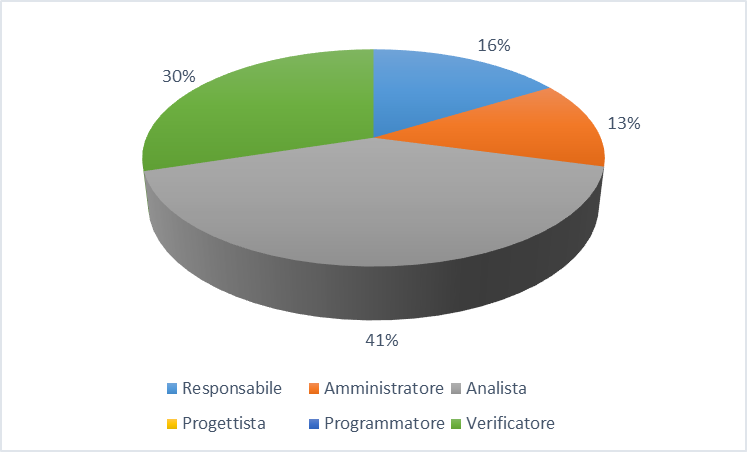
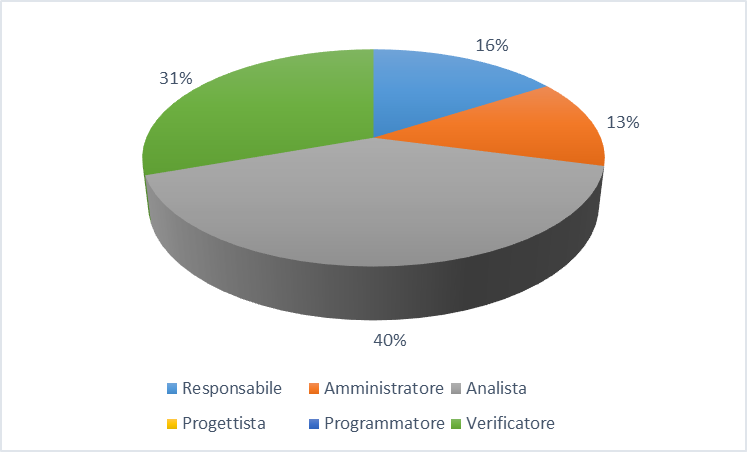
Correzioni a Piano di Progetto

diff --git a/PianodiProgetto/tex/PreventivoConsuntivo.tex b/PianodiProgetto/tex/PreventivoConsuntivo.tex
@@ -3,23 +3,25 @@
 \begin{document}
 	
 \chapter{Preventivo}
-Per il preventivo si tiene conto che i periodi di Analisi e di Consolidamento dei requisiti sono considerati di investimento e quindi non a carico del committente, di conseguenza le ore qui rendicontate non saranno conteggiate nelle ore totali da retribuire.
+I periodi di Analisi e di Consolidamento dei requisiti sono considerati di investimento e quindi non a carico del committente. Le ore relative qui rendicontate non saranno conteggiate nelle ore totali da retribuire.\\
 La suddivisione oraria viene fatta tenendo conto di tre regole principali:
 \begin{enumerate}
-\item Ogni membro del gruppo dovrà sostenere una mole di lavoro comparabile, quindi il totale delle ore dovrà essere equamente distribuito tra i membri;
+\item Ogni membro del gruppo dovrà sostenere una quantità di lavoro paragonabile, quindi il totale delle ore dovrà essere equamente distribuito tra i membri;
 \item Ogni membro del gruppo dovrà ricoprire ogni ruolo almeno una volta;
-\item In nessun caso si dovrà verificare un conflitto di interessi in cui un Vericatore debba controllare il proprio lavoro.
+\item In nessun caso si dovrà verificare un conflitto di interessi in cui un \textit{Vericatore} debba controllare il proprio lavoro.
 \end{enumerate}
 Le sigle utilizzate per i vari ruoli saranno:
 \begin{itemize}
-\item Re: Responsabile;
-\item Am: Amministratore;
-\item An: Analista;
-\item Pt: Progettista;
-\item Pr: Programmatore;
-\item Ve: Verificatore.
+\item Re: \textit{Responsabile};
+\item Am: \textit{Amministratore};
+\item An: \textit{Analista};
+\item Pt: \textit{Progettista};
+\item Pr: \textit{Programmatore};
+\item Ve: \textit{Verificatore}.
 \end{itemize}
-Per facilitare la lettura delle tabelle si è deciso che, nel caso una cella contenga un valore pari a 0, questo verrà omesso lasciando la cella vuota.
+\noindent Ogni sezione rappresenta un periodo di lavoro del progetto ed è suddivisa in prospetto orario dove si espone la distribuzione oraria di ogni componente del gruppo nei vari ruoli che ricopre e in prospetto economico dove si riassumono i costi sostenuti per ogni ruolo. \\
+Ogni prospetto è accompagnato da un grafico che permette una veloce comprensione della suddivisione delle ore nei vari ruoli. Per il prospetto orario si utilizza un diagramma a barre mentre per quello economico un diagramma a torta.\\
+\noindent Per facilitare la lettura delle tabelle si è deciso che, nel caso una cella contenga un valore pari a 0, questo verrà omesso lasciando la cella vuota.
 
 \section{Analisi}
 Questo periodo di lavoro fa parte del periodo di investimento a carico del gruppo Graphite.
@@ -31,14 +33,14 @@ Nel periodo di Analisi la distribuzione oraria sarà la seguente:
 	\begin{tabular}{|c|cccccc|c|}
 		\hline
 		Nominativo&Re&Am&An&Pt&Pr&Ve&Ore totali\\ \hline
-		Marco Focchiatti&5& &17& & & &22 \\ \hline
+		Marco Focchiatti&5& &16& & & &21 \\ \hline
 		Samuele Modena&10&4& & & &8&22 \\ \hline
-		Matteo Rizzo&10& & & & &12&22 \\ \hline
+		Matteo Rizzo&9& & & & &12&21 \\ \hline
 		Giulio Rossetti& &8&6& & &8&22 \\ \hline
-		Kevin Silvestri& & &12& & &10&22 \\ \hline
+		Kevin Silvestri& & &11& & &10&21 \\ \hline
 		Manfredi Smaniotto& & &14& & &8&22 \\ \hline
 		Cristiano Tessarolo& &8&14& & & &22 \\  \hline
-		Ore totali ruolo&25&20&63& & &46&154 \\ \hline
+		Ore totali ruolo&24&20&61& & &46&151 \\ \hline
 	\end{tabular}
 \caption{Distribuzione oraria del periodo di Analisi}
 \end{table}
@@ -59,13 +61,13 @@ Nello svolgimento delle attività di questo periodo i costi sostenuti per ogni r
 	\begin{tabular}{|c|c|c|}
 		\hline
 		Ruolo&Ore&Costo in \euro{} \\ \hline
-		Responsabile&25&750,00  \\ \hline
+		Responsabile&24&720,00  \\ \hline
 		Amministratore&20&400,00  \\ \hline
-		Analista&63&1575,00  \\ \hline
+		Analista&61&1525,00  \\ \hline
 		Progettista& &  \\ \hline
 		Programmatore& &  \\ \hline
 		Verificatore&46&690,00  \\ \hline
-		Totale&154&3415,00 \\ \hline
+		Totale&151&3335,00 \\ \hline
 	\end{tabular}
 	\caption{Prospetto economico del periodo di Analisi}
 \end{table}
@@ -319,14 +321,14 @@ Di seguito sono riportate il totale delle ore del progetto contando le ore di in
 	\begin{tabular}{|c|cccccc|c|}
 		\hline
 		Nominativo&Re&Am&An&Pt&Pr&Ve&Ore totali\\ \hline
-		Marco Focchiatti&10&5&22&32&22&41&132 \\ \hline
+		Marco Focchiatti&10&5&21&32&22&41&131 \\ \hline
 		Samuele Modena&10&10&19&34&24&34&131 \\ \hline
-		Matteo Rizzo&12&10&8&42&22&36&130 \\ \hline
+		Matteo Rizzo&11&10&8&42&22&36&129 \\ \hline
 		Giulio Rossetti&10&10&15&40&22&33&130 \\ \hline
-		Kevin Silvestri&8&8&12&35&22&45&130 \\ \hline
+		Kevin Silvestri&8&8&11&35&22&45&129 \\ \hline
 		Manfredi Smaniotto&8&9&17&34&21&42&131 \\ \hline
 		Cristiano Tessarolo&8&8&14&34&21&46&131 \\  \hline
-		Ore totali ruolo&66&60&107&251&154&277&915 \\ \hline
+		Ore totali ruolo&65&60&105&251&154&277&912 \\ \hline
 	\end{tabular}
 	\caption{Distribuzione oraria totale delle ore di investimento e rendicontate}
 \end{table}
@@ -340,20 +342,20 @@ Tali dati sono riassunti graficamente nel seguente diagramma a barre:
 \end{figure}
 
 \subsection{Totale del prospetto economico con investimento}
-Di seguito è riportato il totale delle ore dei diversi ruoli del progetto contando le ore di investimento e delle ore rendicontate nel preventivo a carico del committente:
+Di seguito è riportato il totale delle ore dei diversi ruoli del progetto contando anche le ore di investimento, non a carico del proponente trattandosi dell'investimento iniziale:
 
 \begin{table}[H]
 	\centering
 	\begin{tabular}{|c|c|c|}
 		\hline
 		Ruolo&Ore&Costo in \euro{} \\ \hline
-		Responsabile&66&1980,00  \\ \hline
+		Responsabile&65&1950,00  \\ \hline
 		Amministratore&60&1200,00  \\ \hline
-		Analista&107&2675,00 \\ \hline
+		Analista&105&2625,00 \\ \hline
 		Progettista&251&5522,00 \\ \hline
 		Programmatore&154&2310,00 \\ \hline
 		Verificatore&277&4155,00  \\ \hline
-		Totale&915&17842,00 \\ \hline
+		Totale&912&17762,00 \\ \hline
 	\end{tabular}
 	\caption{Prospetto economico totale delle ore di investimento e rendicontate}
 \end{table}
@@ -432,8 +434,8 @@ In questa sezione verranno presentati i consuntivi dei vari periodi con una
 breve valutazione degli stessi. Verrà inoltre presentato un preventivo a finire
 che terrà conto dei soli periodi rendicontati. I valori presentati saranno:
 \begin{itemize}
-\item Positivi se il preventivo è superiore ai valori del consuntivo;
-\item Negativi se il preventivo è inferiore ai valori del consuntivo.
+\item \textbf{Positivi:} se il preventivo è superiore ai valori del consuntivo;
+\item \textbf{Negativi:} se il preventivo è inferiore ai valori del consuntivo.
 \end{itemize}
 \section{Periodo di Analisi}
 Essendo il periodo di Analisi considerato periodo di investimento, il consuntivo viene presentato a scopo informativo ma non conteggiato nel preventivo a finire.
@@ -512,7 +514,7 @@ usato il valore del preventivo.
 	\begin{tabular}{|c|c|c|}
 		\hline
 		Nome&Data&Firma \\ \hline
-		Marco Focchiatti& \today & \includegraphics[scale=0.5]{img/firme/SilvestriKevin} \\
+		Marco Focchiatti& \today & \includegraphics[scale=0.5]{img/firme/FocchiattiMarco} \\
 		\hline
 	\end{tabular}
 	\caption{Approvazione}
@@ -524,13 +526,13 @@ usato il valore del preventivo.
 	\begin{tabular}{|c|c|c|}
 		\hline
 		Nome&Data&Firma \\ \hline
-		Marco Focchiatti& \today &\includegraphics[scale=0.5]{img/firme/SilvestriKevin} \\ \hline
+		Marco Focchiatti& \today &\includegraphics[scale=0.5]{img/firme/FocchiattiMarco} \\ \hline
 		Samuele Modena& \today &\includegraphics[scale=0.5]{img/firme/ModenaSamuele} \\ \hline
 		Matteo Rizzo& \today &\includegraphics[scale=0.5]{img/firme/RizzoMatteo} \\ \hline
-		Giulio Rossetti&  \today &\includegraphics[scale=0.5]{img/firme/SilvestriKevin} \\ \hline
+		Giulio Rossetti&  \today &\includegraphics[scale=0.5]{img/firme/RossettiGiulio} \\ \hline
 		Kevin Silvestri& \today &\includegraphics[scale=0.5]{img/firme/SilvestriKevin} \\ \hline
-		Manfredi Smaniotto& \today &\includegraphics[scale=0.5]{img/firme/SilvestriKevin} \\ \hline
-		Cristiano Tessarolo& \today &\includegraphics[scale=0.5]{img/firme/SilvestriKevin} \\  
+		Manfredi Smaniotto& \today &\includegraphics[scale=0.5]{img/firme/SmaniottoManfredi} \\ \hline
+		Cristiano Tessarolo& \today &\includegraphics[scale=0.5]{img/firme/TessaroloCristiano} \\  
 		\hline
 	\end{tabular}
 	\caption{Accettazione dei componenti}
